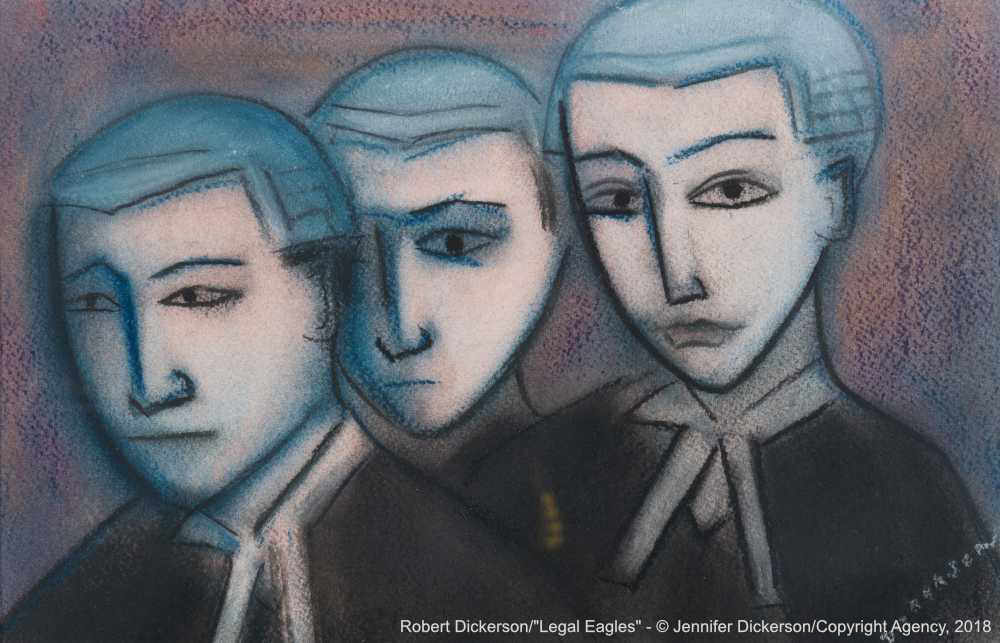
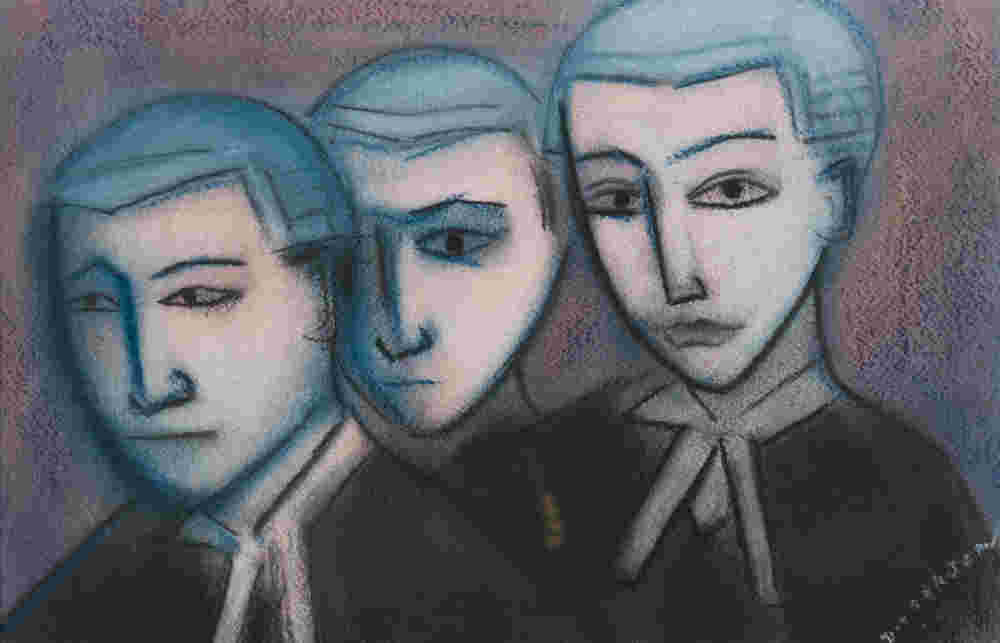
removed copyright from image and changed text at the bottom

diff --git a/src/js/partials/footer.js b/src/js/partials/footer.js
@@ -14,7 +14,8 @@ export class Footer extends React.Component {
 				<img src={Profile} />
 				<div className="inner">
 					<ContactInfo />
-					<small>Robert Dickerson/"Legal Eagles" - © Jennifer Dickerson/Copyright Agency, 2018</small>
+					<small>Banner image Robert Dickerson "Legal Eagles"”<br/>
+					© Jennifer Dickerson/Copyright Agency, 2018</small>
 				</div>
 			</footer>
 		);

diff --git a/src/scss/variables.scss b/src/scss/variables.scss
@@ -6,8 +6,8 @@ $font_headings: 400 1.5em 'Slab', serif;
 
 //Colours
 $purple: #8e76aa;
-$grey_light: #bfbfbf;
-$grey_dark:#757575;
+$grey_light: #c4c4c4;
+$grey_dark:#8f8f8f;
 
 
 //Sizes
